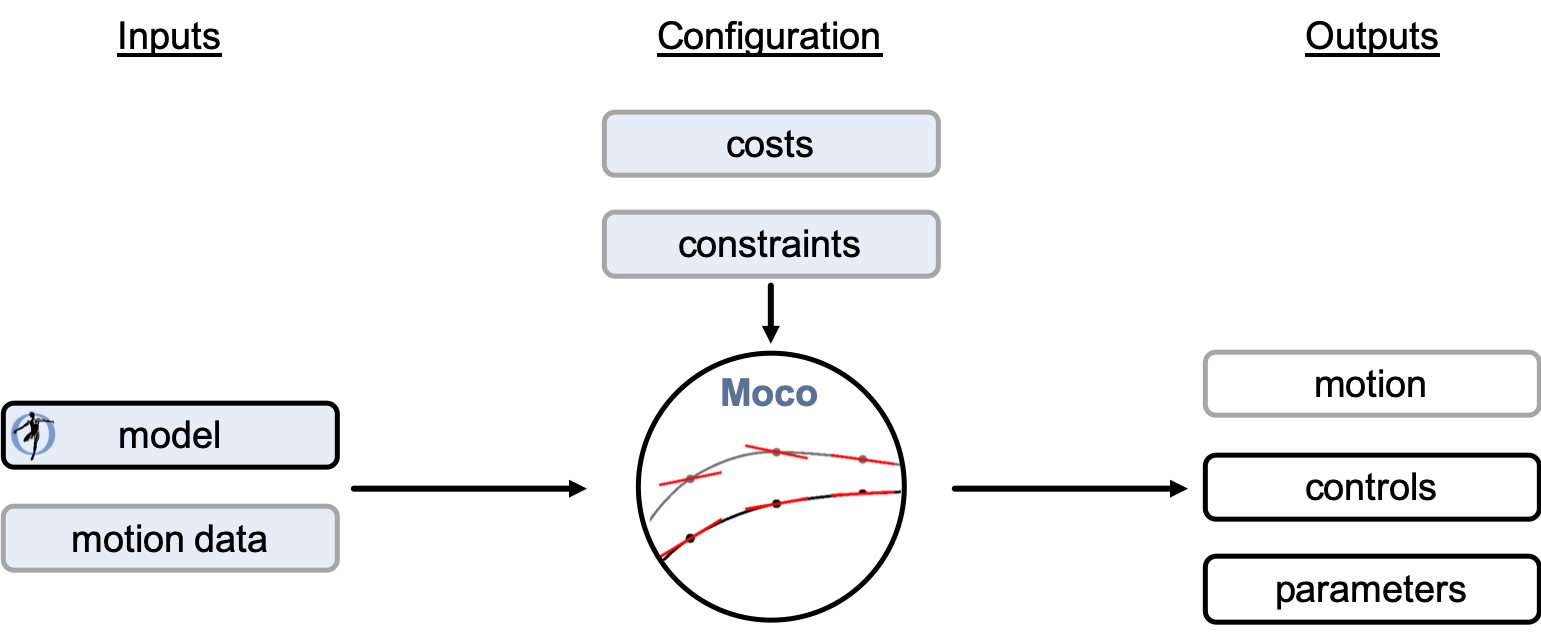
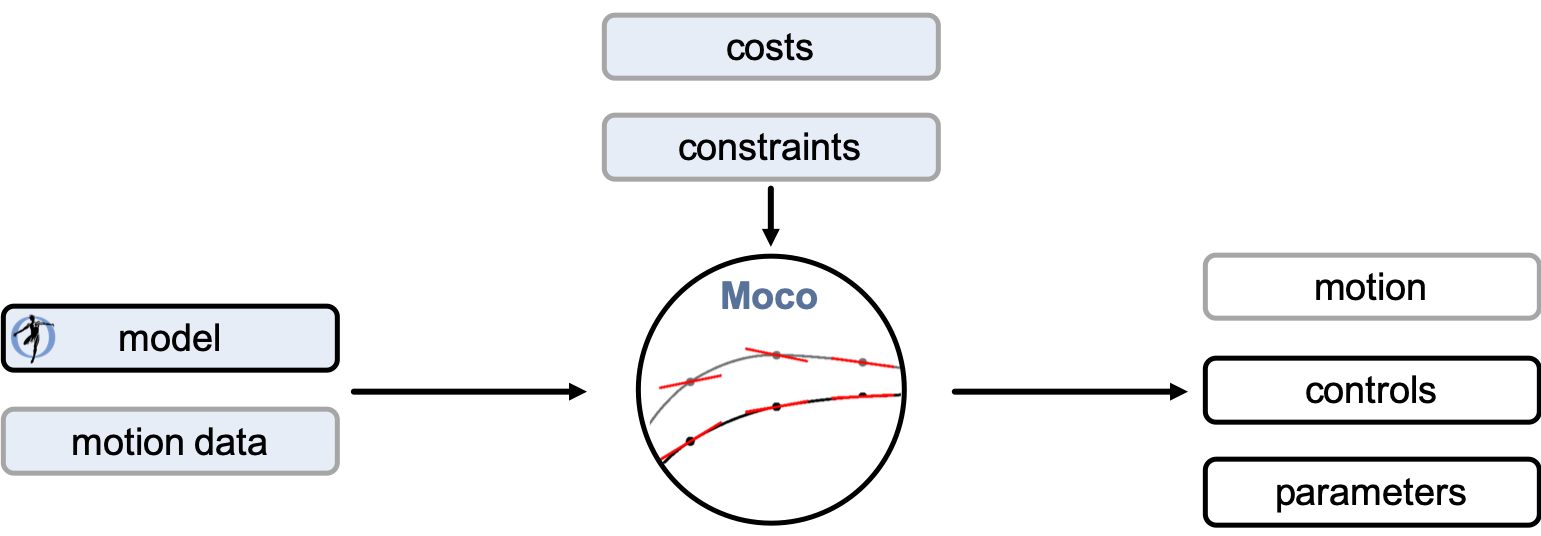
Reduce size of title and image.

diff --git a/index.html b/index.html
@@ -2,35 +2,14 @@
 layout: default
 overview: true
 ---
-<style>
-.logos {
-border-radius: 25px;
-text-align: center;
-margin-top: 0.5em;
--webkit-box-shadow: 0 3px 10px rgba(0,0,0,0.1);
--moz-box-shadow: 0 3px 10px rgba(0,0,0,0.1);
-box-shadow: 0 3px 10px rgba(0,0,0,0.1);
-}
-.logos img {
-  display: block;
-  max-width:230px;
-  max-height:45px;
-  width: auto;
-  height: auto;
-  display: inline-block;
-  padding-left: 0.9em;
-padding-right: 0.9em;
-margin-top: 0.3em;
-margin-bottom: 0.3em;
-}</style>
 <section class="intro">
   <div class="grid">
     <div style="padding-top: 1em; padding-left: 1em">
-      <p class="first">Optimize the motion and control of musculoskeletal
-      models</p>
+      <p>Optimize the motion and control of musculoskeletal
+      models.</p>
     </div>
-    <div class="unit one-thirds center-on-mobiles" style="padding-top: 1em">
-        <img src="{{ 'WhatIsMoco.png' | relative_url }}"/>
+    <div class="unit whole align-center" style="padding-top: 1em;">
+        <img src="{{ 'WhatIsMoco.png' | relative_url }}" width="80%"/>
     </div>
   </div>
 </section>

diff --git a/_sass/_style.scss b/_sass/_style.scss
@@ -254,7 +254,7 @@ footer {
 }
 
 @media (min-width: 569px) {
-  .intro p { font-size: 3.2em; }
+  .intro p { font-size: 1.75em; }
 }
 
 /* Quickstart */
